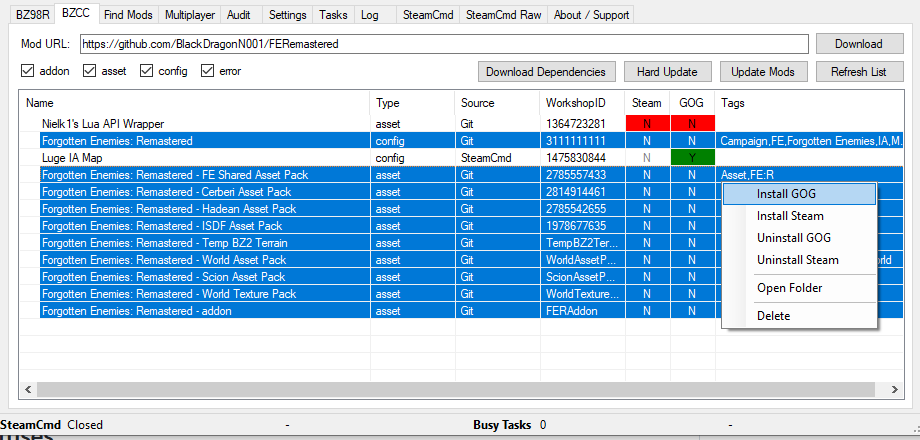
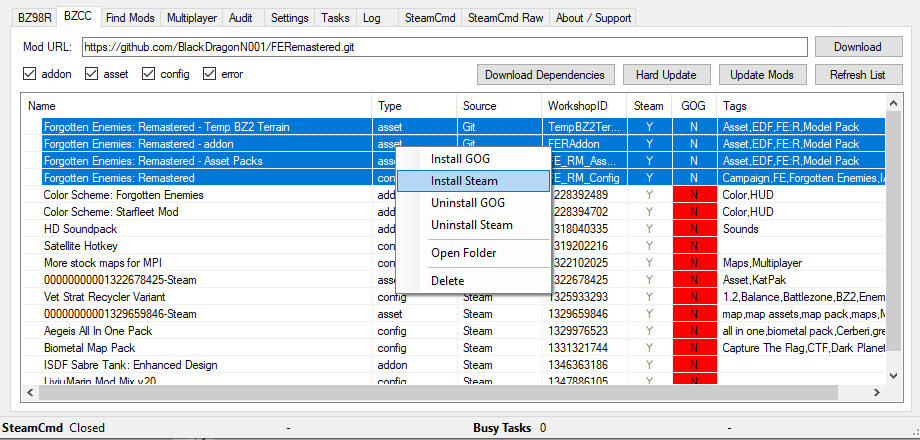
Updated readme github URL to the correct one ending in .git.

diff --git a/README.md b/README.md
@@ -9,7 +9,7 @@
 1. Following the setup instructions for BZRMM - open `BZRModManager.exe` and select the `Settings` tab. Make sure to set the install location for BZCC (either GOG or Steam) and set the `My Docs/My Games` folder location 
 ![](docs/BZRMM_Settings.PNG)
 
-1. On the BZCC tab, paste the github url for FER (https://github.com/BlackDragonN001/FERemastered) into the `Mod URL` field and click download (This will take a long time to download, See the `Tasks` tab to watch the current progress)
+1. On the BZCC tab, paste the github url for FER (https://github.com/BlackDragonN001/FERemastered.git) into the `Mod URL` field and click download (This will take a long time to download, See the `Tasks` tab to watch the current progress)
 ![](docs/BZRMM_ModURL.PNG)
 
 1. Once `Busy Tasks` is 0 in the status at the bottom of BZRMM, select all FER Mods and choose either `Install GOG` or `Install Steam` in the right-click menu
